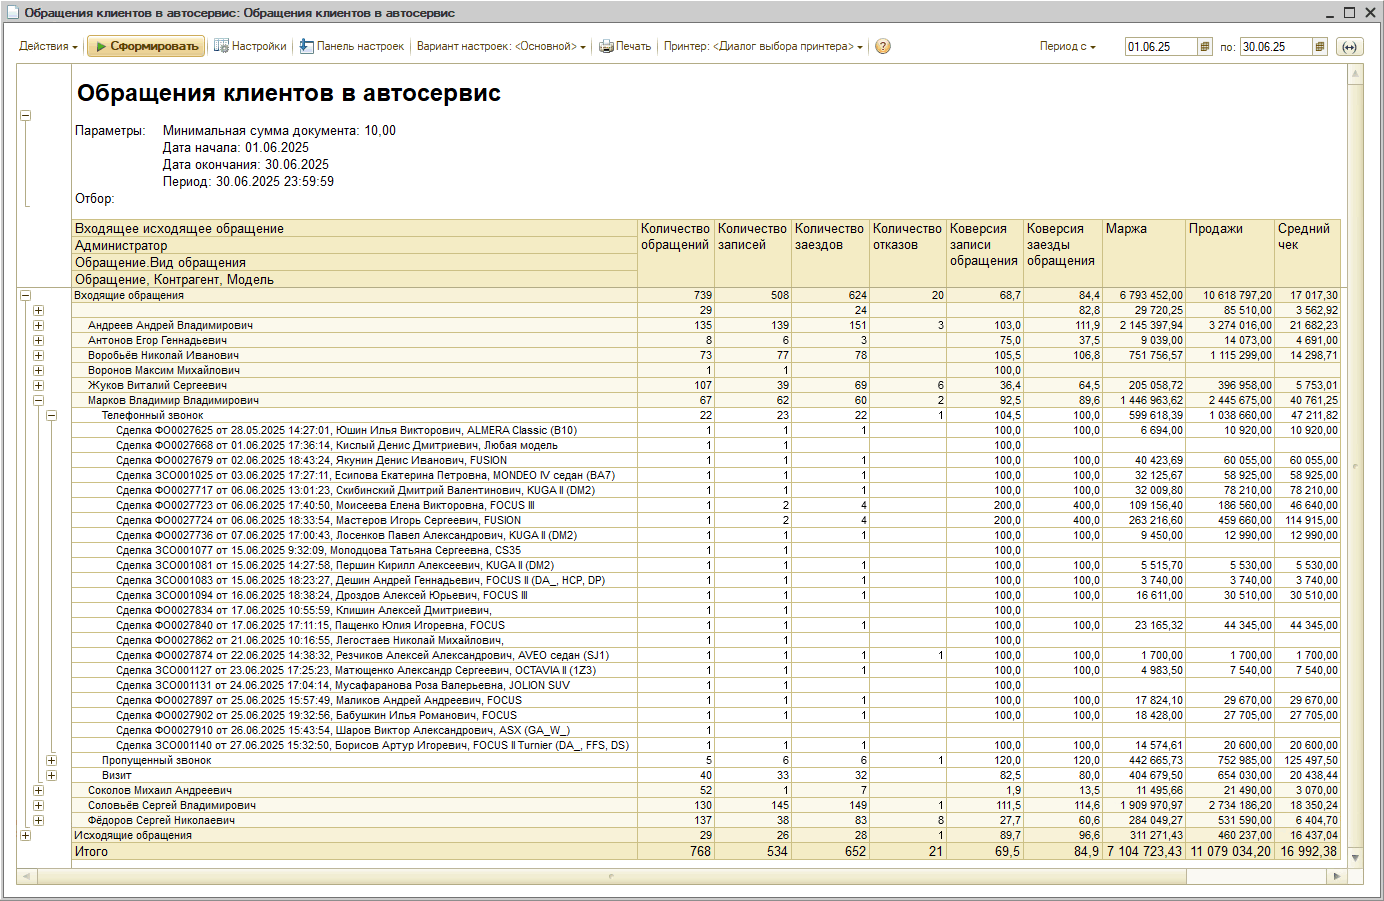
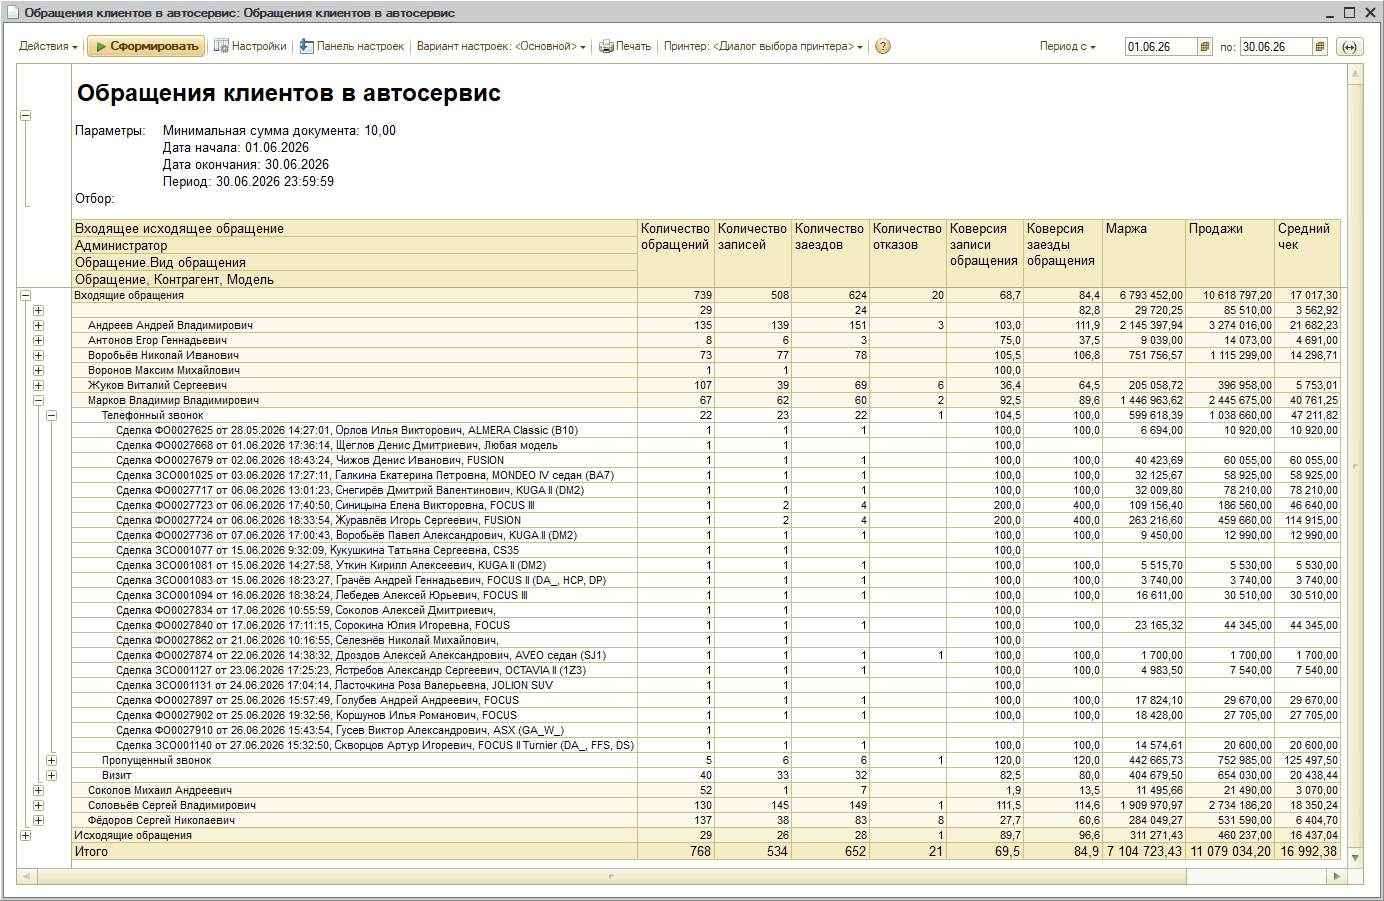
Anonymise funnel screenshot and tidy the lesson text.
Manager and branch names in the sales funnel screenshot are replaced
with the neutral sets already used elsewhere in the lesson, sorted
alphabetically. Drops the navigation screenshot for Статистика по
обращениям in favour of the menu path in text, and spells е instead
of ё throughout.

Changed region(s): [[0.2175, 0.4661, 0.466, 0.8391]]

diff --git a/knowledges/Уроки/kak-posmotret-kolichestvo-unikalnyh-klientov/kak-posmotret-kolichestvo-unikalnyh-klientov.md b/knowledges/Уроки/kak-posmotret-kolichestvo-unikalnyh-klientov/kak-posmotret-kolichestvo-unikalnyh-klientov.md
@@ -1,75 +1,73 @@
 # Как посмотреть количество уникальных клиентов, обратившихся за период
 
-Готового показателя «количество уникальных клиентов» в программе нет: отчёты считают обращения, записи и заезды. Один и тот же клиент за период может обратиться несколько раз, поэтому число обращений всегда больше числа клиентов.
+Готового показателя «количество уникальных клиентов» в программе нет: отчеты считают обращения, записи и заезды. Один и тот же клиент за период может обратиться несколько раз, поэтому число обращений всегда больше числа клиентов.
 
-Ближе всего к задаче отчёт «Статистика по обращениям», который делит клиентов на первичных, повторных и лояльных. Количество первичных за период — это и есть новые уникальные клиенты, обратившиеся впервые. Остальные отчёты дают более широкую картину по воронке продаж.
+Ближе всего к задаче отчет «Статистика по обращениям», который делит клиентов на первичных, повторных и лояльных. Количество первичных за период — это и есть новые уникальные клиенты, обратившиеся впервые. Остальные отчеты дают более широкую картину по воронке продаж.
 
 ## Статистика по обращениям (анализ заездов)
 
-Основной отчёт для этой задачи. Он разделяет клиентов на три категории:
+Основной отчет для этой задачи. Он разделяет клиентов на три категории:
 
 - **Первичные** — за период приобрели запчасти или заехали первый раз,
 - **Повторные** — заехали второй раз,
 - **Лояльные** — заехали третий раз и более.
 
-Перейти к отчёту: **CRM → Отчёты → Статистика по обращениям**.
+Перейти можно через типовое меню: **CRM → Все операции → Отчеты → Статистика по обращениям**.
 
-![Переход к отчёту «Статистика по обращениям»](attachments/01-statistika-perehod.png)
+По умолчанию отчет группирует данные по категориям клиентов за квартал:
 
-По умолчанию отчёт группирует данные по категориям клиентов за квартал:
-
-![Отчёт «Статистика по обращениям»](attachments/02-statistika-otchet.png)
+![Отчет «Статистика по обращениям»](attachments/02-statistika-otchet.png)
 
 Период группировки можно изменить, например на месяц:
 
 ![Изменение периода группировки](attachments/03-statistika-period.png)
 
-Обратите внимание: отчёт работает только по заказ-нарядам и реализациям товаров — данные формируются через регистр накопления «Обращения (Пять систем)», куда запись попадает после закрытия заказ-наряда или проведения документа «Реализация товаров». Обращения, не дошедшие до заезда, в этот отчёт не попадут.
+Обратите внимание: отчет работает только по заказ-нарядам и реализациям товаров — данные формируются через регистр накопления «Обращения (Пять систем)», куда запись попадает после закрытия заказ-наряда или проведения документа «Реализация товаров». Обращения, не дошедшие до заезда, в этот отчет не попадут.
 
 ## Обращения клиентов в автосервис
 
-Самый простой отчёт по обращениям: показывает, сколько клиентов обратилось за период, сколько из них записалось и сколько реально заехало.
+Самый простой отчет по обращениям: показывает, сколько клиентов обратилось за период, сколько из них записалось и сколько реально заехало.
 
-Отчёт не выведен на рабочий стол, открывать его нужно через верхнее меню: **Сервис → Все операции → Отчёты → Обращения клиентов в автосервис** (в типовом меню — **CRM → Все операции → Отчёты**).
+Отчет не выведен на рабочий стол, открывать его нужно через верхнее меню: **Сервис → Все операции → Отчеты → Обращения клиентов в автосервис** (в типовом меню — **CRM → Все операции → Отчеты**).
 
 Перед формированием задайте нужный период в настройках:
 
-![Настройки отчёта — период и отбор](attachments/04-obrashcheniya-nastroyki.png)
+![Настройки отчета — период и отбор](attachments/04-obrashcheniya-nastroyki.png)
 
-Отчёт покажет количество обращений, записей, заездов и отказов, а также конверсию на каждом этапе:
+Отчет покажет количество обращений, записей, заездов и отказов, а также конверсию на каждом этапе:
 
-![Показатели отчёта](attachments/05-obrashcheniya-pokazateli.png)
+![Показатели отчета](attachments/05-obrashcheniya-pokazateli.png)
 
 ## Воронка продаж по закрытым сделкам
 
-Считает клиентов по обращениям (лидам и сделкам) и показывает, на каком этапе клиент ушёл в отказ. В отчёт попадают только закрытые сделки — с результатом в виде успешной продажи или зафиксированного отказа.
+Считает клиентов по обращениям (лидам и сделкам) и показывает, на каком этапе клиент ушел в отказ. В отчет попадают только закрытые сделки — с результатом в виде успешной продажи или зафиксированного отказа.
 
-Перейти к отчёту: **CRM → вкладка «Отчёты» → Воронки продаж**.
+Перейти к отчету: **CRM → вкладка «Отчеты» → Воронки продаж**.
 
 ![Переход к воронке продаж](attachments/06-voronka-zakrytye-perehod.png)
 
 Итоговые значения группируются по признаку «Первичный/Повторный», поэтому по колонке «Обр.» видно количество первичных обращений за период:
 
-![Отчёт «Воронка продаж по закрытым сделкам»](attachments/07-voronka-zakrytye-otchet.png)
+![Отчет «Воронка продаж по закрытым сделкам»](attachments/07-voronka-zakrytye-otchet.png)
 
 ## Операционная воронка продаж
 
-В отличие от воронки по закрытым сделкам формируется по текущей деятельности — на основании документов записи и продажи за период. В отчёт попадают и закрытые, и открытые сделки, поэтому он подходит для контроля текущего количества обращений.
+В отличие от воронки по закрытым сделкам формируется по текущей деятельности — на основании документов записи и продажи за период. В отчет попадают и закрытые, и открытые сделки, поэтому он подходит для контроля текущего количества обращений.
 
-Перейти к отчёту: **CRM → Отчёты → Операционная воронка продаж**.
+Перейти к отчету: **CRM → Отчеты → Операционная воронка продаж**.
 
 ![Переход к операционной воронке продаж](attachments/08-voronka-operacionnaya-perehod.png)
 
 Отдельные колонки «Обращения (первичные)» и «Обращения (повторные)» позволяют оценить, сколько новых клиентов обратилось за период:
 
-![Отчёт «Операционная воронка продаж»](attachments/09-voronka-operacionnaya-otchet.jpg)
+![Отчет «Операционная воронка продаж»](attachments/09-voronka-operacionnaya-otchet.jpg)
 
-Учтите, что по одному обращению может быть несколько записей, а в отчёт попадают и «старые» обращения, документы по которым созданы в текущем периоде.
+Учтите, что по одному обращению может быть несколько записей, а в отчет попадают и «старые» обращения, документы по которым созданы в текущем периоде.
 
 ## Сводная ведомость
 
-Универсальный отчёт с настраиваемым набором показателей. Перейти к нему можно через **Автосервис → Аналитика → Базовые отчёты → Сводная ведомость**. Задайте период в полях «Период с» и «по» и нажмите «Сформировать» — в колонке «Количество Заказ-Нарядов» будет видно число заездов за период по каждому подразделению и итогом по компании:
+Универсальный отчет с настраиваемым набором показателей. Перейти к нему можно через **Автосервис → Аналитика → Базовые отчеты → Сводная ведомость**. Задайте период в полях «Период с» и «по» и нажмите «Сформировать» — в колонке «Количество Заказ-Нарядов» будет видно число заездов за период по каждому подразделению и итогом по компании:
 
-![Отчёт «Сводная ведомость»: переход и сформированный отчёт](attachments/10-svodnaya-vedomost.png)
+![Отчет «Сводная ведомость»: переход и сформированный отчет](attachments/10-svodnaya-vedomost.png)
 
-Отчёт удобен, когда нужно свести данные по клиентам вместе с другими показателями работы сервиса в одну таблицу.
+Отчет удобен, когда нужно свести данные по клиентам вместе с другими показателями работы сервиса в одну таблицу.
